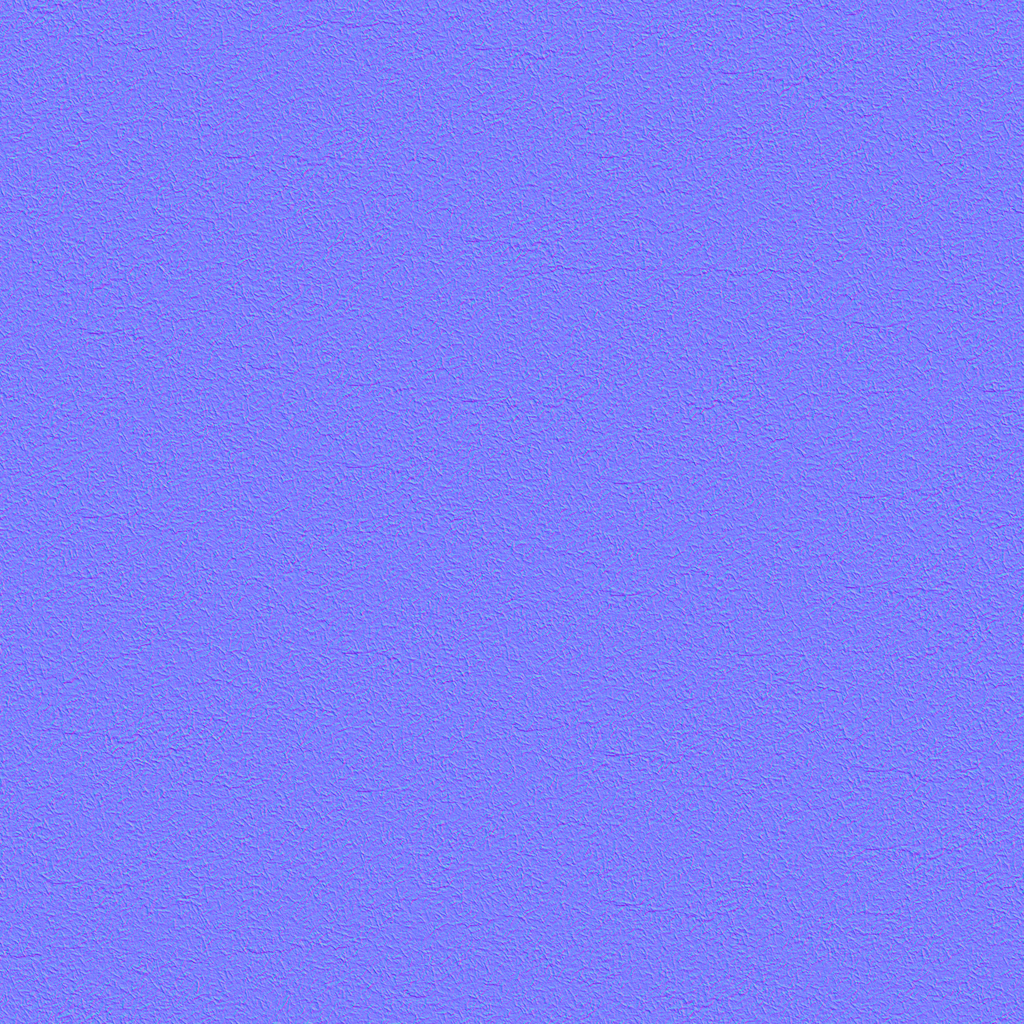
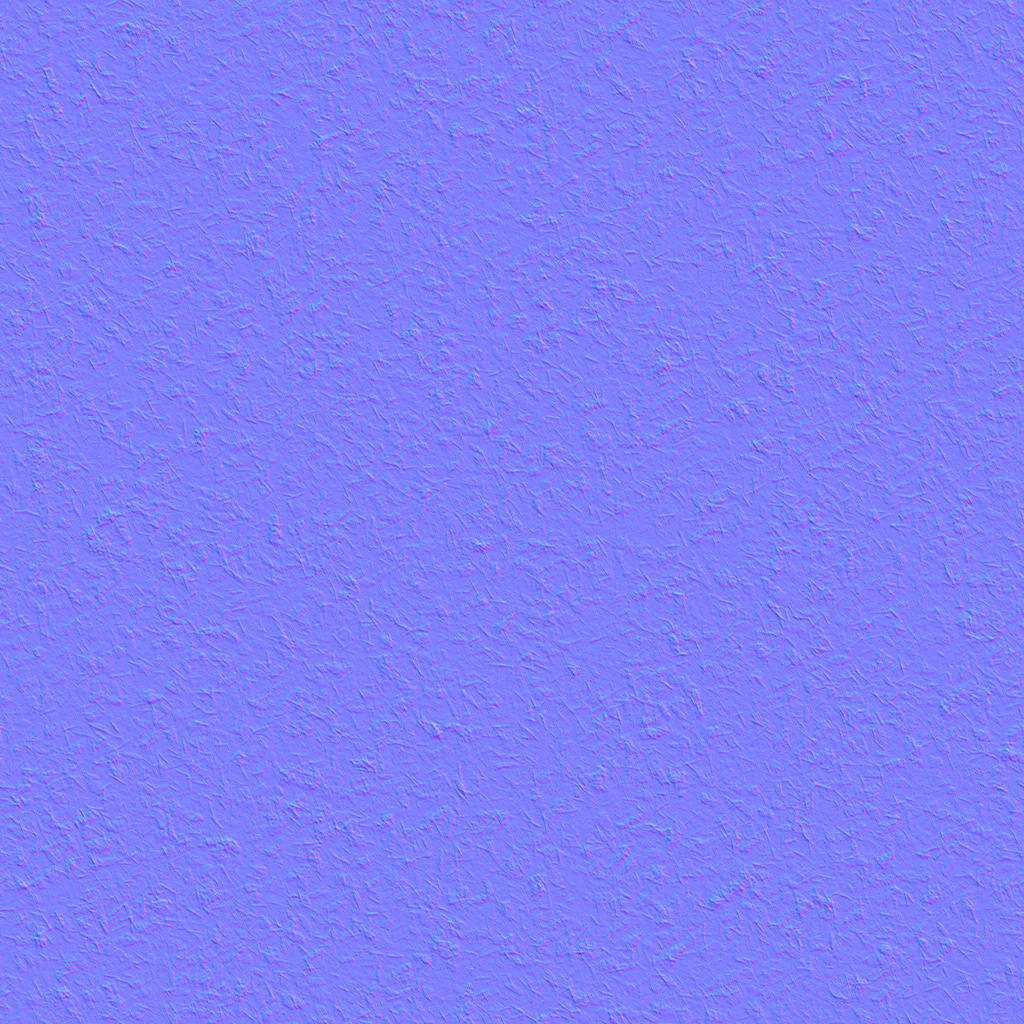
Refine pulp grain, forest layers and warm shafts

diff --git a/studio/rendering/forest.js b/studio/rendering/forest.js
@@ -6,26 +6,30 @@ export function createForest({THREE,scene,paperGrassSet,paperDirtSet,standardPap
   canopyGroup.name='Layered pulp forest';
   scene.add(canopyGroup);
 
-  // Source maps already contain pigment; another green/brown tint made them black.
-  const forestLeafMats=[0xffffff,0xfffcf4,0xf4f6df].map(color=>{
+  // A restrained cooler olive tint separates crown pigment from the yellow
+  // sunlit turf. Distant layers become a little paler, never black silhouettes.
+  const forestLeafMats=[0xc5d5cc,0xd0ddd5,0xdce4d8].map(color=>{
     const material=standardPaperMaterial(paperGrassSet,{normalScale:.52,roughness:1,color,ao:.38});
     material.vertexColors=true;
     // Pulp fibres scatter the light; a glossy texture texel must not turn an
     // entire pressed leaf into coated plastic. Local overlap occlusion affects
     // indirect light only, leaving narrow cut edges free to catch the key light.
     material.onBeforeCompile=shader=>{
+      shader.uniforms.pulpCutColor={value:new THREE.Color(0xb7a664)};
       shader.vertexShader=shader.vertexShader.replace('#include <common>',
-        '#include <common>\nattribute float pulpOcclusion;\nvarying float vPulpOcclusion;');
+        '#include <common>\nattribute float pulpOcclusion;\nattribute float pulpCut;\nvarying float vPulpOcclusion;\nvarying float vPulpCut;');
       shader.vertexShader=shader.vertexShader.replace('#include <begin_vertex>',
-        '#include <begin_vertex>\nvPulpOcclusion = pulpOcclusion;');
+        '#include <begin_vertex>\nvPulpOcclusion = pulpOcclusion;\nvPulpCut=pulpCut;');
       shader.fragmentShader=shader.fragmentShader.replace('#include <common>',
-        '#include <common>\nvarying float vPulpOcclusion;');
+        '#include <common>\nuniform vec3 pulpCutColor;\nvarying float vPulpOcclusion;\nvarying float vPulpCut;');
+      shader.fragmentShader=shader.fragmentShader.replace('#include <color_fragment>',
+        '#include <color_fragment>\ndiffuseColor.rgb=mix(diffuseColor.rgb,pulpCutColor,vPulpCut*.48);');
       shader.fragmentShader=shader.fragmentShader.replace('#include <roughnessmap_fragment>',
         '#include <roughnessmap_fragment>\nroughnessFactor = max(roughnessFactor, 0.95);');
       shader.fragmentShader=shader.fragmentShader.replace('#include <aomap_fragment>',
         '#include <aomap_fragment>\nreflectedLight.indirectDiffuse *= vPulpOcclusion;');
     };
-    material.customProgramCacheKey=()=> 'pulp-crown-contact-v2';
+    material.customProgramCacheKey=()=> 'pulp-crown-contact-v3';
     return material;
   });
   const forestTrunkMats=[0xffffff,0xfff4e9,0xffecd8].map(color=>
@@ -36,7 +40,7 @@ export function createForest({THREE,scene,paperGrassSet,paperDirtSet,standardPap
   });
 
   function geometryWriter(){
-    const positions=[],normals=[],uvs=[],colors=[],occlusion=[];
+    const positions=[],normals=[],uvs=[],colors=[],occlusion=[],cuts=[];
     function triangle(a,b,c,normal,color=[1,1,1]){
       if(!normal){
         const ux=b[0]-a[0],uy=b[1]-a[1],uz=b[2]-a[2];
@@ -49,6 +53,7 @@ export function createForest({THREE,scene,paperGrassSet,paperDirtSet,standardPap
         positions.push(point[0],point[1],point[2]);
         normals.push(...normal);uvs.push(point[3],point[4]);colors.push(...color);
         occlusion.push(point[5]??1);
+        cuts.push(point[6]??0);
       }
     }
     function quad(a,b,c,d,color){triangle(a,b,d,undefined,color);triangle(b,c,d,undefined,color);}
@@ -59,6 +64,7 @@ export function createForest({THREE,scene,paperGrassSet,paperDirtSet,standardPap
       geometry.setAttribute('uv',new THREE.Float32BufferAttribute(uvs,2));
       geometry.setAttribute('color',new THREE.Float32BufferAttribute(colors,3));
       geometry.setAttribute('pulpOcclusion',new THREE.Float32BufferAttribute(occlusion,1));
+      geometry.setAttribute('pulpCut',new THREE.Float32BufferAttribute(cuts,1));
       geometry.computeBoundingBox();geometry.computeBoundingSphere();
       return geometry;
     }
@@ -99,11 +105,11 @@ export function createForest({THREE,scene,paperGrassSet,paperDirtSet,standardPap
   // Small, almost circular pressed leaves overlap instead of forming one wide
   // horizontal roof. The bevel is only 2.4% of the radius, not a padded rim.
   function crownGeometry(seed){
-    const random=rng(9100+seed*97),writer=geometryWriter(),count=32;
+    const random=rng(9100+seed*97),writer=geometryWriter(),count=24;
     const phase=random()*Math.PI*2;
     const rings=[[],[],[],[],[]];
     const radii=[.54,.976,1,1,.976],depths=[.043,.043,.025,-.022,-.039];
-    const aspect=.78+random()*.10;
+    const aspect=.84+random()*.09;
     for(let ring=0;ring<5;ring++)for(let i=0;i<count;i++){
       const angle=Math.PI*2*i/count;
       const outline=1+.032*Math.cos(angle*7+phase)+.024*Math.sin(angle*3+phase*.63)+.009*Math.sin(angle*13+phase);
@@ -113,8 +119,9 @@ export function createForest({THREE,scene,paperGrassSet,paperDirtSet,standardPap
       const tucked=smoothstep(.12,.62,y/aspect)*(1-smoothstep(.48,1,Math.abs(x)));
       // The upper inner face is under the leaf above it. Exposed bottom and
       // side edges remain unoccluded; never draw a dirty circle round a leaf.
-      const ao=ring<2?1-tucked*.34:1;
-      rings[ring].push([x,y,z,x*.85+.5,y*.85+.5,ao]);
+      const ao=ring<2?1-tucked*.38:1;
+      const cut=ring===2?.85:ring===3?.18:0;
+      rings[ring].push([x,y,z,x*.85+.5,y*.85+.5,ao,cut]);
     }
     const front=[0,0,.043,.5,.5,1],back=[0,0,-.039,.5,.5,1];
     for(let i=0;i<count;i++){
@@ -123,7 +130,7 @@ export function createForest({THREE,scene,paperGrassSet,paperDirtSet,standardPap
       writer.triangle(back,rings[4][j],rings[4][i],[0,0,-1]);
       writer.quad(rings[0][i],rings[1][i],rings[1][j],rings[0][j]);
       for(let ring=1;ring<4;ring++){
-        const edgeColor=ring===1?[1.15,1.045,.82]:ring===2?[.96,.91,.76]:[1,1,1];
+        const edgeColor=ring===1?[1.05,1.015,.96]:ring===2?[.96,.94,.88]:[1,1,1];
         writer.quad(rings[ring][i],rings[ring+1][i],rings[ring+1][j],rings[ring][j],edgeColor);
       }
     }
@@ -162,20 +169,25 @@ export function createForest({THREE,scene,paperGrassSet,paperDirtSet,standardPap
     const random=rng(12000+seed*41);
     // Keep three distinct raised layers, with a lower canopy that frames the
     // scene while preserving the open illuminated gaps between the trunks.
-    const crownBase=(3.38+layer*.38+(random()-.5)*.78)*scale;
+    const crownBase=(3.43+layer*.38+(random()-.5)*.97)*scale;
     const bottom=floorPoint(x,z)[1]-.075,top=crownBase+1.28*scale;
     const trunk={x:x+(random()-.5)*.15*scale,y:(bottom+top)*.5,z:z-.26*scale,
-      width:(.29+random()*.28)*scale,height:top-bottom,rot:(random()-.5)*.034,layer};
+      width:(.30+random()*.28)*scale,height:top-bottom,rot:(random()-.5)*.047,layer};
     const crowns=[];
-    const tiers=[[-.56,.10,.31],[.43,-.02,.37],[-.09,.37,.49],[-.67,.71,.08],[.54,.73,.12],[.03,1.05,.29],[.05,1.59,-.11]];
+    // Interleaved short rows retain the crown's overall spread while breaking
+    // the old single row of large scallops into individually readable leaves.
+    const tiers=[[-.68,.10,.32],[-.04,-.08,.47],[.60,.16,.27],
+      [-.87,.61,.00],[-.28,.48,.31],[.37,.56,.44],[.91,.72,-.03],
+      [-.61,1.05,.04],[.03,1.04,.35],[.63,1.15,.07],
+      [-.35,1.52,-.16],[.30,1.62,-.08],[.01,1.98,-.30]];
     for(let tier=0;tier<tiers.length;tier++){
       const [dx,dy,dz]=tiers[tier];
       crowns.push({geo:(seed+tier)%crownGeometries.length,
-        x:x+dx*scale+(random()-.5)*.20*scale,
-        y:crownBase+dy*scale+(random()-.5)*.13*scale,
-        z:z+dz*scale,
-        sx:(.53+random()*.18)*scale,sy:(.63+random()*.19)*scale,
-        depth:scale,rot:(random()-.5)*.36,tilt:(random()-.5)*.20,layer});
+        x:x+dx*scale+(random()-.5)*.16*scale,
+        y:crownBase+dy*scale+(random()-.5)*.22*scale,
+        z:z+(dz+(random()-.5)*.13)*scale,
+        sx:(.53+random()*.18)*scale*.74,sy:(.63+random()*.19)*scale*.74,
+        depth:scale*.82,rot:(random()-.5)*.48,tilt:(random()-.5)*.30,layer});
     }
     trees.push({trunk,crowns});
   }
@@ -195,6 +207,60 @@ export function createForest({THREE,scene,paperGrassSet,paperDirtSet,standardPap
   });
   [[-9.2,-2.2,0,1.45],[-8.6,.8,0,1.35],[9,-2,0,1.45],[8.5,1.2,0,1.35]]
     .forEach((data,i)=>queueTree(data[0],data[1],data[2],700+i*29,data[3]));
+
+  // Low, thick paper silhouettes fill selected distant gaps between trunks.
+  // Their irregular tops and staggered depths avoid a flat fog-coloured wall.
+  function distantPaperGeometry(seed){
+    const random=rng(4400+seed*107),writer=geometryWriter(),outline=[];
+    const phase=random()*Math.PI*2,segments=36,thickness=.14;
+    for(let i=0;i<=segments;i++){
+      const u=i/segments,x=u-.5;
+      const envelope=Math.pow(Math.sin(Math.PI*u),.72);
+      const y=envelope*(.72+.13*Math.sin(u*Math.PI*5+phase)+.09*Math.sin(u*Math.PI*9-phase*.6));
+      outline.push(new THREE.Vector2(x,Math.max(0,y)));
+    }
+    const triangles=THREE.ShapeUtils.triangulateShape(outline,[]);
+    const point=(p,z)=>[p.x,p.y,z,p.x*3.6,p.y*3.6];
+    for(const indices of triangles){
+      let [a,b,c]=indices.map(index=>outline[index]);
+      if((b.x-a.x)*(c.y-a.y)-(b.y-a.y)*(c.x-a.x)<0)[b,c]=[c,b];
+      writer.triangle(point(a,thickness*.5),point(b,thickness*.5),point(c,thickness*.5),[0,0,1]);
+      writer.triangle(point(a,-thickness*.5),point(c,-thickness*.5),point(b,-thickness*.5),[0,0,-1]);
+    }
+    for(let i=0;i<outline.length;i++){
+      const a=outline[i],b=outline[(i+1)%outline.length];
+      writer.quad(point(a,-thickness*.5),point(a,thickness*.5),point(b,thickness*.5),point(b,-thickness*.5),[.89,.87,.84]);
+    }
+    return writer.finish();
+  }
+  const distantPaperGeometries=[1,2].map(distantPaperGeometry);
+  const distantPaperMats=[0xe3c3a6,0xd4afa9,0xc8b7d4,0xb8b2ca].map(color=>{
+    const material=standardPaperMaterial(paperDirtSet,{normalScale:.22,roughness:1,color,ao:.22});
+    material.vertexColors=true;
+    // Preserve the source paper's pigment variation in a pale distant colour
+    // rather than multiplying a pink silhouette by brown soil albedo.
+    material.onBeforeCompile=shader=>{
+      shader.fragmentShader=shader.fragmentShader.replace('#include <map_fragment>',`#include <map_fragment>
+        #ifdef USE_MAP
+          float paperPigment=dot(sampledDiffuseColor.rgb,vec3(.2126,.7152,.0722));
+          diffuseColor.rgb=diffuse*mix(.83,1.10,smoothstep(.03,.45,paperPigment));
+        #endif
+      `);
+    };
+    material.customProgramCacheKey=()=> 'distant-pulp-pigment-v1';
+    return material;
+  });
+  const distantPapers=[];
+  for(let layer=0;layer<2;layer++){
+    const random=rng(22009+layer*229),count=9;
+    for(let i=0;i<count;i++){
+      const x=(i-(count-1)*.5)*4.2+(random()-.5)*1.4;
+      const z=-14.6-layer*4.8+(random()-.5)*1.5;
+      distantPapers.push({x,z,y:floorPoint(x,z)[1]-.10,
+        sx:4.7+random()*2.1,sy:1.15+random()*1.35,geo:(i+layer)%2,
+        mat:x<0?layer:layer+2,rot:(random()-.5)*.035});
+    }
+  }
 
   const dummy=new THREE.Object3D();
   function instances(geometry,material,items,name,configure){
@@ -223,9 +289,25 @@ export function createForest({THREE,scene,paperGrassSet,paperDirtSet,standardPap
       });
     }
   }
+  for(let mat=0;mat<distantPaperMats.length;mat++)for(let geo=0;geo<distantPaperGeometries.length;geo++){
+    const items=distantPapers.filter(item=>item.mat===mat&&item.geo===geo);
+    if(!items.length)continue;
+    const mesh=new THREE.InstancedMesh(distantPaperGeometries[geo],distantPaperMats[mat],items.length);
+    mesh.name=`Distant paper silhouettes ${mat}/${geo}`;
+    mesh.instanceMatrix.setUsage(THREE.StaticDrawUsage);
+    mesh.castShadow=false;mesh.receiveShadow=false;mesh.frustumCulled=false;
+    items.forEach((item,index)=>{
+      dummy.position.set(item.x,item.y,item.z);
+      dummy.rotation.set(0,0,item.rot);dummy.scale.set(item.sx,item.sy,1);
+      dummy.updateMatrix();mesh.setMatrixAt(index,dummy.matrix);
+    });
+    mesh.instanceMatrix.needsUpdate=true;canopyGroup.add(mesh);
+  }
   const allCrowns=trees.flatMap(tree=>tree.crowns);
+  const distantTriangles=distantPapers.reduce((sum,item)=>sum+distantPaperGeometries[item.geo].attributes.position.count/3,0);
   canopyGroup.userData.forest={trees:trees.length,crowns:allCrowns.length,
+    distantPapers:distantPapers.length,distantTriangles,
     floorTriangles:forestFloorGeometry.attributes.position.count/3,
-    triangles:trees.length*(trunkGeo.attributes.position.count/3)+allCrowns.reduce((sum,crown)=>sum+crownGeometries[crown.geo].attributes.position.count/3,0)+forestFloorGeometry.attributes.position.count/3};
+    triangles:trees.length*(trunkGeo.attributes.position.count/3)+allCrowns.reduce((sum,crown)=>sum+crownGeometries[crown.geo].attributes.position.count/3,0)+forestFloorGeometry.attributes.position.count/3+distantTriangles};
   return {canopyGroup};
 }

diff --git a/studio/rendering/terrain-dressing.js b/studio/rendering/terrain-dressing.js
@@ -44,13 +44,13 @@ export function createTerrainDressing({THREE,parent,columnRecords,grassMaterial}
   }
   // Small groups of folded leaves break up the shelves without crossing the
   // z=0 walking lane. Their bases sit on the exact height of their columns.
-  for(const [cx,cz] of [[-2.1,1.3],[1.7,-1.3],[2.8,1.7],[-3.8,-1.8],[-1.9,-2.5],[4.5,-2.5],[.8,2.7]]){
+  for(const [cx,cz] of [[-.95,.90],[1.45,.90],[-2.1,2.2],[1.7,-1.3],[2.8,1.7],[-3.8,-1.8],[-1.9,-2.5],[4.5,-2.5],[.8,2.7]]){
     const c=columnRecords.find(q=>q.x===Math.round(cx)&&q.z===Math.round(cz));
     if(!c)continue;
     for(let i=0;i<5;i++){
       const scale=.68+hash(cx+i,cz,37)*.7;
       tufts.push({x:cx+(i-2)*.115,y:c.h+.5+.23*scale,z:cz+(hash(cx+i,cz,38)-.5)*.26,
-        scale,rot:hash(cx,cz+i,39)*Math.PI});
+        scale,rot:(hash(cx,cz+i,39)-.5)*1.2});
     }
   }
   const dummy=new THREE.Object3D();
@@ -75,7 +75,7 @@ export function createTerrainDressing({THREE,parent,columnRecords,grassMaterial}
     stones.push({x:c.x+.22-hash(c.x,c.z,23)*.44,y:c.h+.68,z:c.z+.22-hash(c.x,c.z,24)*.44,
       sx:.75+hash(c.x,c.z,25)*.8,sy:.55+hash(c.x,c.z,26)*.5,sz:.7+hash(c.x,c.z,27)*.65,rot:hash(c.x,c.z,28)*Math.PI});
   }
-  for(const [x,z,sx,sy,sz] of [[-2.2,1.7,1.45,.82,1.0],[2.25,-1.6,1.0,.7,.9]]){
+  for(const [x,z,sx,sy,sz] of [[-1.55,.60,1.45,.82,1.0],[2.25,-1.6,1.0,.7,.9]]){
     const c=columnRecords.find(q=>q.x===Math.round(x)&&q.z===Math.round(z));
     if(c)stones.push({x,y:c.h+.5+.16*sy,z,sx,sy,sz,rot:hash(x,z,52)*Math.PI});
   }

diff --git a/studio/rendering/volumetrics.js b/studio/rendering/volumetrics.js
@@ -182,7 +182,7 @@ const compositeUniforms={
   sceneColor:{value:null},
   volumeColor:{value:null},
   volumeTexel:{value:new THREE.Vector2(1,1)},
-  volumeStrength:{value:.24},
+  volumeStrength:{value:.44},
   aoTexture:{value:null},sceneDepth:{value:null},aoTexel:{value:new THREE.Vector2(1,1)},
   cameraNearFar:{value:new THREE.Vector2(camera.near,camera.far)},aoEnabled:{value:1}
 };
@@ -429,7 +429,7 @@ function renderWithVolumetrics(){
   if(state.ao&&flags.ao){contactAO.render(sceneTarget.depthTexture);flags.ao=false;}
   compositeUniforms.aoEnabled.value=state.ao?1:0;
   compositeUniforms.cameraNearFar.value.set(camera.near,camera.far);
-  compositeUniforms.volumeStrength.value=state.godrays?.24:0;
+  compositeUniforms.volumeStrength.value=state.godrays?.44:0;
   if(state.godrays){
     updateVolumetricShadow(false);
     volumeUniforms.cameraProjectionInv.value.copy(camera.projectionMatrixInverse);

diff --git a/studio/rendering/actor.js b/studio/rendering/actor.js
@@ -88,7 +88,7 @@ loadTexture(new URL('../../assets/player/protagonist.webp',import.meta.url).href
       // Printed black ink still reflects the paper substrate. A tiny linear
       // pigment floor keeps the original drawing readable under backlight;
       // it is lit with the sheet, not added as emissive display color.
-      diffuseColor.rgb=diffuseColor.rgb*.985+vec3(.012,.009,.006);
+      diffuseColor.rgb=diffuseColor.rgb*.91+vec3(.030,.022,.017);
     `).replace('#include <shadowmap_pars_fragment>',`#include <shadowmap_pars_fragment>
       #include <shadowmask_pars_fragment>
     `).replace('#include <opaque_fragment>',`

diff --git a/studio/rendering/terrain.js b/studio/rendering/terrain.js
@@ -57,6 +57,7 @@ for(let z=-3;z<=3;z++)for(let x=-7;x<=7;x++){
     if(z===-1&&x>=-4&&x<=-3)h=1;
     if((z===-1||z===-2)&&x>=3&&x<=4)h=1;
     if(z>=2&&(x===-3||x===3))h=1;
+    if(z===2&&(x===-2||x===2))h=1;
   }
 
   columnRecords.push({x,z,h,columnIndex:columnRecords.length});
